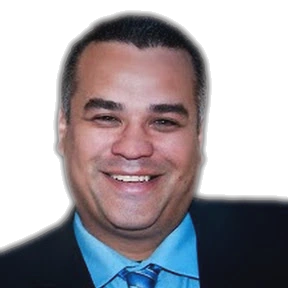
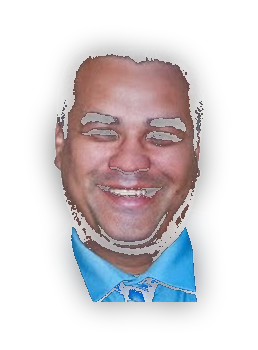
Home hero: padded Edgar cutout with transparent border halo
Re-cut edgar-lombera.jpg via rembg; crop subject, +48px pad, 32px feather,
strip dark wall fringe. Border alpha proof (all edges min=0 max=0):
  top/bottom/left/right rows-cols alpha 0; corners 0; bottom-center 0.
Plain <img> unoptimized (no next/image alpha flatten). Caption on white fade.
9359 grep: no matches in repo or scripts/seed.

diff --git a/src/components/EdgarHeadshot.tsx b/src/components/EdgarHeadshot.tsx
@@ -1,43 +1,65 @@
 import Image from 'next/image'
 import { EDGAR_HERO_CUTOUT, EDGAR_PHOTO_FALLBACK } from '@/lib/mediaUrl'
 
+/** Padded transparent cutout — do not run through next/image optimizer (flattens alpha). */
+const EDGAR_CUTOUT_WIDTH = 258
+const EDGAR_CUTOUT_HEIGHT = 350
+
 export function EdgarHeadshot({
   priority = false,
   theme = 'light',
   feathered = false,
+  showCaption = true,
   className,
 }: {
   priority?: boolean
   theme?: 'light' | 'dark'
   feathered?: boolean
+  showCaption?: boolean
   className?: string
 }) {
+  if (feathered) {
+    return (
+      <div className="bg-transparent">
+        <img
+          src={EDGAR_HERO_CUTOUT}
+          alt="Edgar P. Lombera, Founding Attorney"
+          width={EDGAR_CUTOUT_WIDTH}
+          height={EDGAR_CUTOUT_HEIGHT}
+          fetchPriority={priority ? 'high' : undefined}
+          decoding="async"
+          className={className ?? 'h-auto w-full max-w-[220px] bg-transparent md:max-w-[240px]'}
+        />
+      </div>
+    )
+  }
+
   const imageClass =
     className ??
-    (feathered
-      ? 'h-auto w-full max-w-[260px]'
-      : theme === 'dark'
-        ? 'h-auto w-full max-w-[220px] border border-white/15'
-        : 'h-auto w-full max-w-[240px] rounded-sm border border-line shadow-card')
+    (theme === 'dark'
+      ? 'h-auto w-full max-w-[220px] border border-white/15'
+      : 'h-auto w-full max-w-[240px] rounded-sm border border-line shadow-card')
 
   return (
     <figure className="text-center">
       <Image
-        src={feathered ? EDGAR_HERO_CUTOUT : EDGAR_PHOTO_FALLBACK}
+        src={EDGAR_PHOTO_FALLBACK}
         alt="Edgar P. Lombera, Founding Attorney"
         width={288}
         height={288}
         priority={priority}
-        sizes={feathered ? '(min-width: 768px) 260px, 62vw' : '(min-width: 768px) 240px, 60vw'}
+        sizes="(min-width: 768px) 240px, 60vw"
         className={imageClass}
       />
-      <figcaption
-        className={`mt-3 font-body text-xs ${
-          feathered ? 'text-navy' : theme === 'dark' ? 'text-white/70' : 'text-ink-muted'
-        }`}
-      >
-        Edgar P. Lombera, Founding Attorney
-      </figcaption>
+      {showCaption && (
+        <figcaption
+          className={`mt-3 font-body text-xs ${
+            theme === 'dark' ? 'text-white/70' : 'text-ink-muted'
+          }`}
+        >
+          Edgar P. Lombera, Founding Attorney
+        </figcaption>
+      )}
     </figure>
   )
 }

diff --git a/src/app/(frontend)/[locale]/page.tsx b/src/app/(frontend)/[locale]/page.tsx
@@ -55,7 +55,7 @@ export default async function HomePage({ params }: { params: Promise<{ locale: L
     <main>
       <JsonLd data={firmLegalServiceSchema()} />
 
-      <section className="relative isolate overflow-hidden border-b border-line">
+      <section className="relative isolate border-b border-line">
         <HomeHeroBackdrop />
         <Container className="relative z-0 grid items-center gap-10 py-12 md:grid-cols-[1.05fr_auto] md:gap-12 md:py-16 lg:py-20">
           <div className="max-w-xl">
@@ -71,10 +71,11 @@ export default async function HomePage({ params }: { params: Promise<{ locale: L
                 {redlands.phone}
               </Button>
               <p className="mt-4 max-w-md font-body text-sm leading-relaxed text-navy">{nextStep}</p>
+              <p className="mt-6 font-body text-xs text-navy">Edgar P. Lombera, Founding Attorney</p>
             </div>
           </div>
-          <div className="justify-self-center md:justify-self-end">
-            <EdgarHeadshot priority feathered />
+          <div className="justify-self-center bg-transparent md:justify-self-end">
+            <EdgarHeadshot priority feathered showCaption={false} />
           </div>
         </Container>
       </section>
